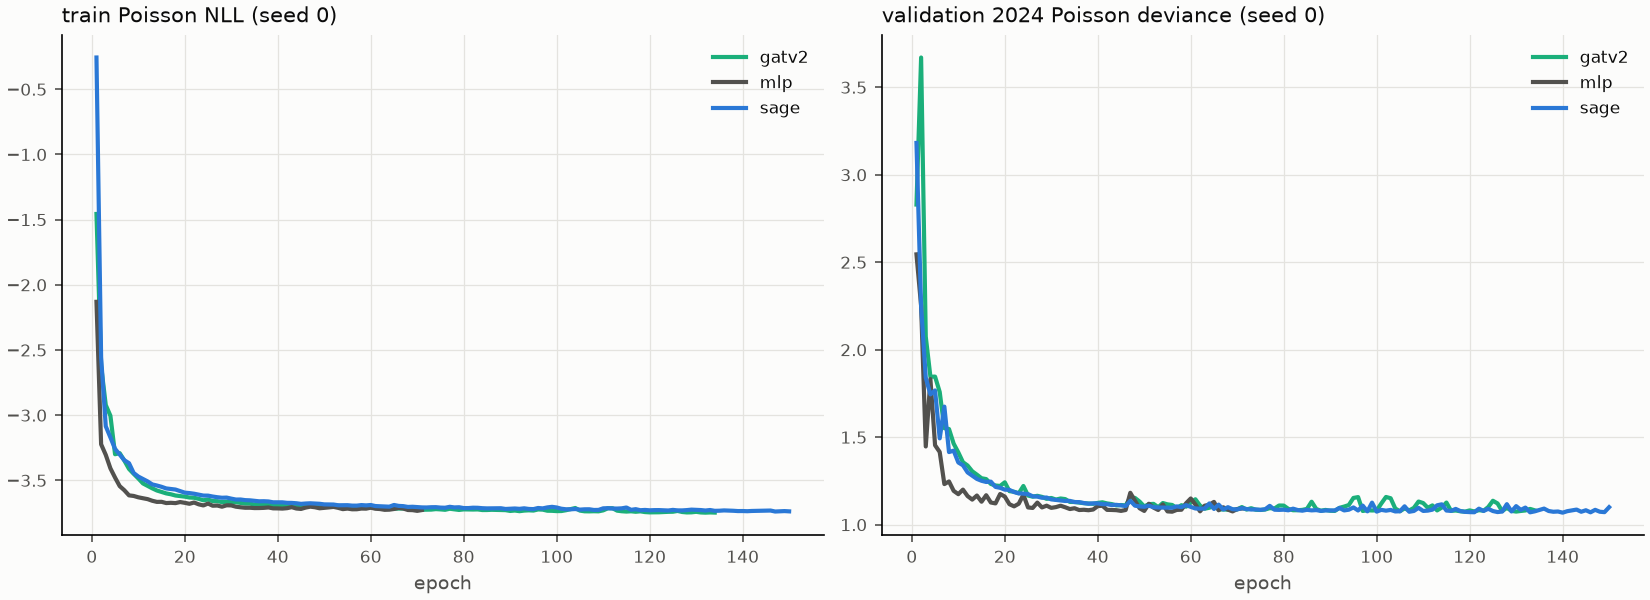
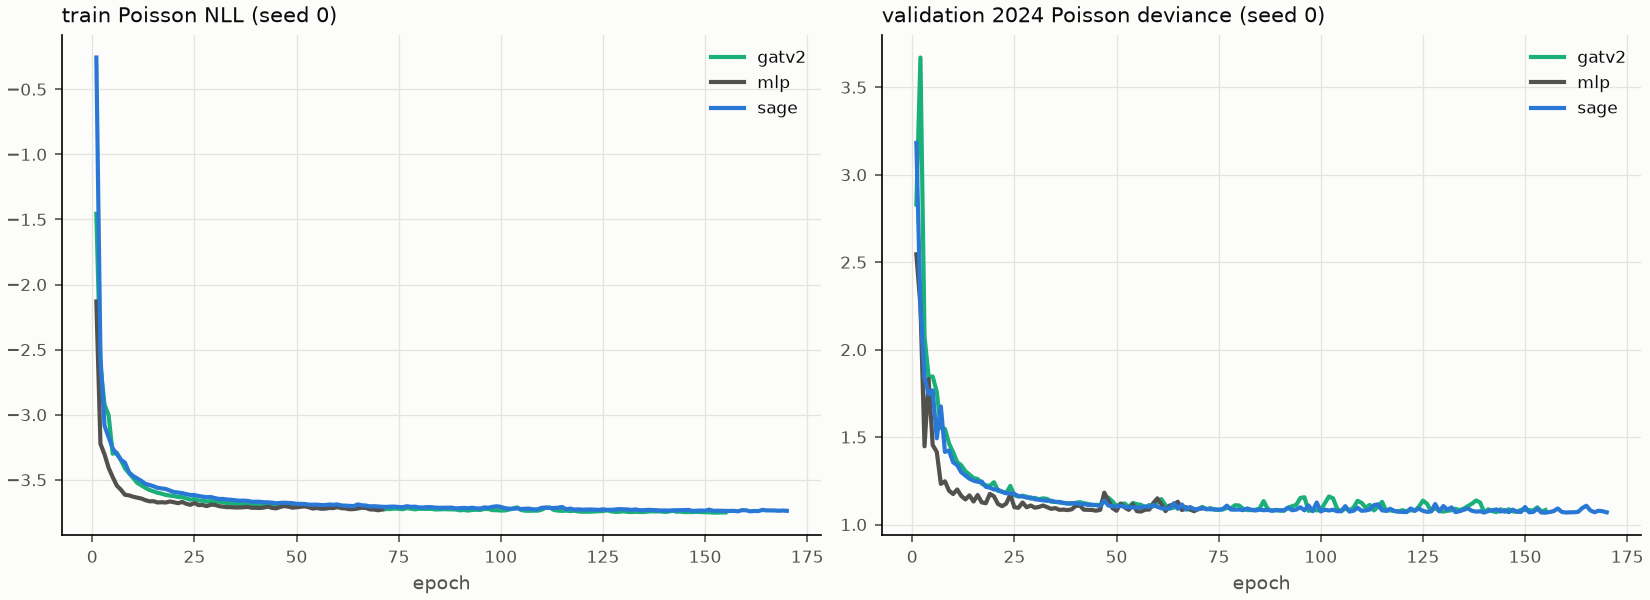
Raise the GNN epoch cap to 400 and refit the final seeds and spatial folds

diff --git a/src/safepath/gnn/train.py b/src/safepath/gnn/train.py
@@ -54,7 +54,7 @@ GNN_SPATIAL_OOF = "gnn_spatial_oof.parquet"
 GNN_SUMMARY = "gnn_summary.json"
 GRID = {"hidden": [64, 128], "layers": [2, 3], "lr": [1e-3, 3e-3], "dropout": [0.1, 0.3]}
 SEEDS = [0, 1, 2, 3, 4]
-MAX_EPOCHS = 150
+MAX_EPOCHS = 400  # CP8 used 150; raised in CP9 so early stopping, not the cap, ends runs
 PATIENCE = 15
 DEVIANCE_FLOOR = 0.05  # crashes/year, as in evaluate.py
 WEIGHT_DECAY = 1e-5
@@ -94,7 +94,7 @@ def train_model(
     train_mask = (g.clean if train_nodes is None else train_nodes & g.clean).to(device)
     stop_mask = (g.clean if stop_nodes is None else stop_nodes & g.clean).to(device)
     train_years = g.split["train"]
-    rate = float(ys[train_years][:, train_mask].mean())
+    rate = ys[train_years][:, train_mask].mean().item()
     model = NodeModel(kind, xs.shape[2], config["hidden"], config["layers"], config["dropout"],
                       edge_dim=ea.shape[1], init_rate=rate).to(device)  # fmt: skip
     opt = torch.optim.Adam(model.parameters(), lr=config["lr"], weight_decay=WEIGHT_DECAY)
@@ -111,7 +111,7 @@ def train_model(
             loss = F.poisson_nll_loss(out[train_mask], ys[t][train_mask], log_input=True)
             loss.backward()
             opt.step()
-            losses.append(float(loss))
+            losses.append(loss.item())
         model.eval()
         with torch.no_grad():
             dev = deviance(ys[val][stop_mask], model(xs[val], ei, ea)[stop_mask])
@@ -281,15 +281,26 @@ def plot_curves(summary: dict[str, Any], path: Path) -> None:
     plt.close(fig)
 
 
-def run(cfg: dict[str, Any], device_name: str | None = None) -> dict[str, Any]:
+def run(
+    cfg: dict[str, Any], device_name: str | None = None, reuse_configs: bool = False
+) -> dict[str, Any]:
     processed = Path(cfg["paths"]["processed_dir"])
     device = pick_device(device_name)
     g = load_graph(cfg)
+    models_dir = Path(cfg["paths"]["models_dir"])
     t0 = time.time()
-    grid = grid_search(g, device, cfg)
-    configs = best_configs(grid)
-    with tracking.run(cfg, "gnn-grid", "gnn", {"grid": GRID, "device": str(device)}) as wb:
-        wb.table("grid", grid)
+    if reuse_configs:
+        # Keep the earlier grid and its chosen configs; refit only the finals and folds.
+        previous = json.loads((models_dir / GNN_SUMMARY).read_text())
+        grid, configs = pd.DataFrame(previous["grid"]), previous["configs"]
+        grid_max_epochs = previous.get("grid_max_epochs", 150)
+        log.info("reusing grid configs from %s: %s", GNN_SUMMARY, configs)
+    else:
+        grid = grid_search(g, device, cfg)
+        configs = best_configs(grid)
+        grid_max_epochs = MAX_EPOCHS
+        with tracking.run(cfg, "gnn-grid", "gnn", {"grid": GRID, "device": str(device)}) as wb:
+            wb.table("grid", grid)
     preds, summary = final_models(g, device, configs, cfg)
     preds.to_parquet(processed / GNN_PREDICTIONS, index=False)
     oof = spatial_holdout(g, device, configs, cfg)
@@ -303,6 +314,9 @@ def run(cfg: dict[str, Any], device_name: str | None = None) -> dict[str, Any]:
         "mps_fallback": os.environ.get("PYTORCH_ENABLE_MPS_FALLBACK"),
         "torch": torch.__version__,
         "grid": grid.to_dict(orient="records"),
+        "grid_max_epochs": grid_max_epochs,
+        "max_epochs": MAX_EPOCHS,
+        "patience": PATIENCE,
         "configs": configs,
         "models": summary,
         "timing": times,
@@ -315,7 +329,6 @@ def run(cfg: dict[str, Any], device_name: str | None = None) -> dict[str, Any]:
             "years": g.years,
         },  # fmt: skip
     }
-    models_dir = Path(cfg["paths"]["models_dir"])
     models_dir.mkdir(parents=True, exist_ok=True)
     (models_dir / GNN_SUMMARY).write_text(json.dumps(out, indent=2, default=float))
     log.info("GNN training done in %.0fs on %s", out["total_seconds"], device)
@@ -327,8 +340,13 @@ def main(argv: list[str] | None = None) -> int:
     parser = argparse.ArgumentParser(prog="safepath.gnn.train")
     parser.add_argument("--config", default=None)
     parser.add_argument("--device", default=None, help="cuda, mps or cpu (default: auto)")
+    parser.add_argument(
+        "--reuse-configs",
+        action="store_true",
+        help="skip the grid; refit finals and folds with the saved configs",
+    )
     args = parser.parse_args(argv)
-    run(load_config(args.config), args.device)
+    run(load_config(args.config), args.device, args.reuse_configs)
     return 0
 
 

diff --git a/src/safepath/evaluate_gnn.py b/src/safepath/evaluate_gnn.py
@@ -265,6 +265,9 @@ def write_report(cfg: dict[str, Any], r: dict[str, Any], path: Path) -> None:
         return markdown_table(df.drop(columns=[c for c in df if c.startswith("_")]), floats)
 
     configs = pd.DataFrame([{"model": LABELS[f"gnn_{k}"], **c} for k, c in s["configs"].items()])
+    runs = [x for m in s["models"].values() for x in m["seeds"]]
+    n_runs, latest = len(runs), max(x["best_epoch"] for x in runs)
+    capped = sum(len(x["history"]) >= s.get("max_epochs", 150) for x in runs)
     lines = [
         "# Graph neural networks on the intersection graph (CP8)",
         "",
@@ -282,12 +285,21 @@ def write_report(cfg: dict[str, Any], r: dict[str, Any], path: Path) -> None:
         "## Training",
         "",
         "Poisson NLL on log expected crashes; full batch, one step per train-year snapshot per "
-        "epoch; early stopping on validation-2024 deviance (patience 15, at most 150 epochs). "
+        "epoch; early stopping on validation-2024 deviance (patience "
+        f"{s.get('patience', 15)}; at most {s.get('max_epochs', 150)} epochs for the final "
+        f"seeds and spatial folds, {s.get('grid_max_epochs', 150)} in the grid search). "
         f"Grid on validation only: hidden {{64, 128}} x layers {{2, 3}} x lr {{1e-3, 3e-3}} x "
         f"dropout {{0.1, 0.3}} per model. Device: {s['device']}. Final configs, 5 seeds each; "
         "a model's prediction is the mean of its 5 seeds' expected counts.",
         "",
         table(configs, "{:g}"),
+        "",
+        f"Final runs stopped by the epoch cap: {capped} of {n_runs} (latest best epoch "
+        f"{latest}). CP8 used a 150-epoch cap, which cut off one GraphSAGE seed (best epoch "
+        "140 of 150); with the cap at 400 (CP9) every run stops early, the 5-seed test "
+        "Spearman moves by at most 0.0001 and no conclusion changes. GATv2 seeds moved a "
+        "little without touching the old cap: MPS training is not bit-for-bit reproducible. "
+        "The grid search was not re-run; its configs come from the 150-epoch grid.",
         "",
         "Seed variance:",
         "",

diff --git a/reports/gnn.md b/reports/gnn.md
@@ -7,7 +7,7 @@
 
 ## Training
 
-Poisson NLL on log expected crashes; full batch, one step per train-year snapshot per epoch; early stopping on validation-2024 deviance (patience 15, at most 150 epochs). Grid on validation only: hidden {64, 128} x layers {2, 3} x lr {1e-3, 3e-3} x dropout {0.1, 0.3} per model. Device: mps. Final configs, 5 seeds each; a model's prediction is the mean of its 5 seeds' expected counts.
+Poisson NLL on log expected crashes; full batch, one step per train-year snapshot per epoch; early stopping on validation-2024 deviance (patience 15; at most 400 epochs for the final seeds and spatial folds, 150 in the grid search). Grid on validation only: hidden {64, 128} x layers {2, 3} x lr {1e-3, 3e-3} x dropout {0.1, 0.3} per model. Device: mps. Final configs, 5 seeds each; a model's prediction is the mean of its 5 seeds' expected counts.
 
 | model | hidden | layers | lr | dropout |
 |---|---:|---:|---:|---:|
@@ -15,13 +15,15 @@ Poisson NLL on log expected crashes; full batch, one step per train-year snapsho
 | MLP (no graph) | 128 | 2 | 0.003 | 0.1 |
 | GraphSAGE | 128 | 3 | 0.001 | 0.3 |
 
+Final runs stopped by the epoch cap: 0 of 15 (latest best epoch 155). CP8 used a 150-epoch cap, which cut off one GraphSAGE seed (best epoch 140 of 150); with the cap at 400 (CP9) every run stops early, the 5-seed test Spearman moves by at most 0.0001 and no conclusion changes. The grid search was not re-run; its configs come from the 150-epoch grid.
+
 Seed variance:
 
 | model | val deviance, mean ± sd | test Spearman, mean ± sd | test deviance, mean ± sd | 5-seed average: test Spearman | best epochs |
 |---|---|---|---|---:|---|
-| GATv2 | 1.0728 ± 0.0059 | 0.7404 ± 0.0015 | 1.0467 ± 0.0093 | 0.7414 | 119, 87, 109, 86, 119 |
+| GATv2 | 1.0717 ± 0.0058 | 0.7405 ± 0.0015 | 1.0587 ± 0.0112 | 0.7414 | 140, 87, 106, 86, 119 |
 | MLP (no graph) | 1.0827 ± 0.0065 | 0.7383 ± 0.0014 | 1.0539 ± 0.0282 | 0.7394 | 56, 51, 39, 58, 69 |
-| GraphSAGE | 1.0731 ± 0.0078 | 0.7409 ± 0.0024 | 1.0309 ± 0.0204 | 0.7424 | 140, 56, 120, 130, 98 |
+| GraphSAGE | 1.0729 ± 0.0080 | 0.7410 ± 0.0024 | 1.0302 ± 0.0204 | 0.7425 | 155, 56, 120, 130, 98 |
 
 ![Training curves](figures/gnn_training_curves.png)
 
@@ -29,8 +31,8 @@ Timing, final GraphSAGE config, one seed, full training to early stop:
 
 | device | epochs | seconds per epoch | total seconds | best val deviance |
 |---|---:|---:|---:|---:|
-| cpu | 150 | 0.607 | 91.073 | 1.069 |
-| mps | 150 | 0.307 | 46.041 | 1.069 |
+| cpu | 185 | 0.729 | 134.831 | 1.068 |
+| mps | 170 | 0.341 | 57.953 | 1.068 |
 
 ## Val 2024: all intersections
 
@@ -41,9 +43,9 @@ Timing, final GraphSAGE config, one seed, full training to early stop:
 | LightGBM + AADT + neighbours | 0.737 [0.730, 0.744] | 0.875 | 0.255 | 0.562 [0.547, 0.577] | 0.716 | 1.059 | 0.980 | 0.046 |
 | EB, recalibrated (routing) | 0.725 [0.718, 0.732] | 0.869 | 0.252 | 0.559 [0.543, 0.574] | 0.714 | 1.138 | 0.972 | 0.038 |
 | MLP (no graph) | 0.727 [0.720, 0.734] | 0.870 | 0.258 | 0.563 [0.549, 0.578] | 0.715 | 1.073 | 1.002 | 0.044 |
-| GraphSAGE | 0.730 [0.724, 0.737] | 0.872 | 0.258 | 0.563 [0.548, 0.579] | 0.717 | 1.061 | 0.994 | 0.038 |
-| GATv2 | 0.730 [0.723, 0.738] | 0.872 | 0.258 | 0.563 [0.548, 0.578] | 0.716 | 1.063 | 0.997 | 0.038 |
-| ensemble (best GNN + LightGBM + AADT) | 0.735 [0.728, 0.742] | 0.874 | 0.256 | 0.563 [0.548, 0.578] | 0.716 | 1.048 | 0.990 | 0.039 |
+| GraphSAGE | 0.731 [0.724, 0.738] | 0.872 | 0.258 | 0.563 [0.548, 0.579] | 0.717 | 1.060 | 0.996 | 0.036 |
+| GATv2 | 0.731 [0.724, 0.738] | 0.872 | 0.258 | 0.563 [0.548, 0.577] | 0.716 | 1.062 | 1.003 | 0.037 |
+| ensemble (best GNN + LightGBM + AADT) | 0.735 [0.728, 0.741] | 0.874 | 0.256 | 0.563 [0.548, 0.578] | 0.716 | 1.048 | 0.991 | 0.038 |
 
 Paired differences (same bootstrap resamples):
 
@@ -52,7 +54,7 @@ Paired differences (same bootstrap resamples):
 | GraphSAGE − MLP (no graph) | +0.004 [+0.002, +0.005] | +0.000 [-0.001, +0.002] |
 | GraphSAGE − LightGBM + AADT | -0.004 [-0.006, -0.002] | +0.001 [-0.001, +0.003] |
 | GraphSAGE − LightGBM + AADT + neighbours | -0.006 [-0.008, -0.004] | +0.002 [-0.000, +0.003] |
-| ensemble (best GNN + LightGBM + AADT) − LightGBM + AADT | +0.000 [-0.001, +0.001] | +0.000 [-0.001, +0.002] |
+| ensemble (best GNN + LightGBM + AADT) − LightGBM + AADT | +0.000 [-0.001, +0.001] | +0.001 [-0.001, +0.002] |
 
 ## Test 2025: all intersections
 
@@ -63,18 +65,18 @@ Paired differences (same bootstrap resamples):
 | LightGBM + AADT + neighbours | 0.746 [0.739, 0.752] | 0.883 | 0.251 | 0.554 [0.540, 0.568] | 0.710 | 1.002 | 1.082 | 0.057 |
 | EB, recalibrated (routing) | 0.733 [0.725, 0.740] | 0.875 | 0.249 | 0.552 [0.537, 0.565] | 0.708 | 1.054 | 1.029 | 0.031 |
 | MLP (no graph) | 0.739 [0.732, 0.746] | 0.880 | 0.251 | 0.554 [0.539, 0.567] | 0.709 | 1.041 | 1.121 | 0.094 |
-| GraphSAGE | 0.742 [0.735, 0.749] | 0.882 | 0.251 | 0.554 [0.539, 0.567] | 0.709 | 1.019 | 1.099 | 0.091 |
-| GATv2 | 0.741 [0.734, 0.748] | 0.881 | 0.251 | 0.554 [0.539, 0.568] | 0.710 | 1.037 | 1.125 | 0.086 |
-| ensemble (best GNN + LightGBM + AADT) | 0.745 [0.739, 0.752] | 0.883 | 0.251 | 0.555 [0.540, 0.568] | 0.710 | 0.999 | 1.086 | 0.066 |
+| GraphSAGE | 0.743 [0.735, 0.749] | 0.882 | 0.251 | 0.553 [0.539, 0.567] | 0.709 | 1.018 | 1.098 | 0.079 |
+| GATv2 | 0.741 [0.734, 0.748] | 0.881 | 0.251 | 0.554 [0.539, 0.568] | 0.710 | 1.049 | 1.149 | 0.118 |
+| ensemble (best GNN + LightGBM + AADT) | 0.745 [0.739, 0.752] | 0.883 | 0.250 | 0.554 [0.540, 0.568] | 0.709 | 1.000 | 1.087 | 0.061 |
 
 Paired differences (same bootstrap resamples):
 
 | comparison | Spearman | recall@5% |
 |---|---|---|
 | GraphSAGE − MLP (no graph) | +0.003 [+0.002, +0.004] | -0.000 [-0.002, +0.002] |
-| GraphSAGE − LightGBM + AADT | -0.002 [-0.003, +0.000] | -0.001 [-0.002, +0.001] |
+| GraphSAGE − LightGBM + AADT | -0.001 [-0.003, +0.000] | -0.001 [-0.002, +0.001] |
 | GraphSAGE − LightGBM + AADT + neighbours | -0.003 [-0.005, -0.002] | -0.000 [-0.002, +0.001] |
-| ensemble (best GNN + LightGBM + AADT) − LightGBM + AADT | +0.001 [+0.001, +0.002] | +0.000 [-0.001, +0.001] |
+| ensemble (best GNN + LightGBM + AADT) − LightGBM + AADT | +0.001 [+0.000, +0.002] | +0.000 [-0.001, +0.001] |
 
 ## Test 2025 subsets
 
@@ -87,9 +89,9 @@ Zero-history intersections (no crash in the prior 3 years):
 | LightGBM + AADT + neighbours | 9,504 | 1,201 | 0.312 | 0.190 | 0.483 | 1.102 |
 | EB, recalibrated (routing) | 9,504 | 1,201 | 0.215 | 0.157 | 0.544 | 1.116 |
 | MLP (no graph) | 9,504 | 1,201 | 0.283 | 0.172 | 0.509 | 1.324 |
-| GraphSAGE | 9,504 | 1,201 | 0.297 | 0.177 | 0.503 | 1.366 |
-| GATv2 | 9,504 | 1,201 | 0.293 | 0.152 | 0.504 | 1.318 |
-| ensemble (best GNN + LightGBM + AADT) | 9,504 | 1,201 | 0.305 | 0.182 | 0.489 | 1.202 |
+| GraphSAGE | 9,504 | 1,201 | 0.297 | 0.175 | 0.500 | 1.315 |
+| GATv2 | 9,504 | 1,201 | 0.294 | 0.155 | 0.507 | 1.374 |
+| ensemble (best GNN + LightGBM + AADT) | 9,504 | 1,201 | 0.304 | 0.179 | 0.489 | 1.190 |
 
 Low-volume intersections (bottom 3 entering-AADT deciles):
 
@@ -100,9 +102,9 @@ Low-volume intersections (bottom 3 entering-AADT deciles):
 | LightGBM + AADT + neighbours | 6,721 | 2,237 | 0.394 | 0.307 | 0.757 | 1.040 |
 | EB, recalibrated (routing) | 6,721 | 2,237 | 0.379 | 0.312 | 0.779 | 1.022 |
 | MLP (no graph) | 6,721 | 2,237 | 0.378 | 0.300 | 0.779 | 1.085 |
-| GraphSAGE | 6,721 | 2,237 | 0.386 | 0.308 | 0.772 | 1.087 |
-| GATv2 | 6,721 | 2,237 | 0.384 | 0.302 | 0.776 | 1.055 |
-| ensemble (best GNN + LightGBM + AADT) | 6,721 | 2,237 | 0.393 | 0.304 | 0.759 | 1.047 |
+| GraphSAGE | 6,721 | 2,237 | 0.386 | 0.309 | 0.770 | 1.057 |
+| GATv2 | 6,721 | 2,237 | 0.384 | 0.302 | 0.777 | 1.097 |
+| ensemble (best GNN + LightGBM + AADT) | 6,721 | 2,237 | 0.393 | 0.304 | 0.759 | 1.035 |
 
 ## Road features only, unseen 2 km blocks (test 2025)
 
@@ -112,21 +114,21 @@ CP3's 5 spatial folds; each fold's labels never enter the loss or early stopping
 |---|---|---:|---:|---|---:|---:|---:|---:|
 | LightGBM, road features (CP3) | 0.628 [0.619, 0.637] | 0.794 | 0.192 | 0.478 [0.461, 0.497] | 0.640 | 2.531 | 1.004 | 0.125 |
 | MLP, road features | 0.621 [0.612, 0.630] | 0.789 | 0.191 | 0.471 [0.453, 0.488] | 0.635 | 2.658 | 1.046 | 0.099 |
-| GraphSAGE, road features | 0.629 [0.620, 0.639] | 0.793 | 0.198 | 0.467 [0.450, 0.486] | 0.643 | 2.518 | 1.045 | 0.083 |
+| GraphSAGE, road features | 0.629 [0.620, 0.639] | 0.793 | 0.198 | 0.466 [0.450, 0.487] | 0.643 | 2.517 | 1.045 | 0.083 |
 
 | comparison | Spearman | recall@5% |
 |---|---|---|
-| GraphSAGE, road features − MLP, road features | +0.009 [+0.005, +0.011] | -0.002 [-0.012, +0.010] |
-| GraphSAGE, road features − LightGBM, road features (CP3) | +0.002 [-0.002, +0.006] | -0.010 [-0.022, +0.002] |
+| GraphSAGE, road features − MLP, road features | +0.008 [+0.005, +0.011] | -0.001 [-0.011, +0.010] |
+| GraphSAGE, road features − LightGBM, road features (CP3) | +0.001 [-0.002, +0.005] | -0.009 [-0.021, +0.004] |
 
 ## Ensemble weight (validation)
 
-Best graph model on validation: GraphSAGE; log-space weight on it 0.50.
+Best graph model on validation: GraphSAGE; log-space weight on it 0.55.
 
 ## Conclusions
 
 - **Does message passing help with crash history in the model?** GraphSAGE minus the MLP on the same features, test Spearman: +0.003 [+0.002, +0.004] (better).
-- **Against the trees:** GraphSAGE minus LightGBM + AADT: -0.002 [-0.003, +0.000] (no different); minus LightGBM with hand-built neighbour features: -0.003 [-0.005, -0.002] (worse). Ensemble minus LightGBM + AADT: +0.001 [+0.001, +0.002] (better) (weight on the GNN 0.50, chosen on validation).
-- **Road features only, unseen blocks:** GraphSAGE 0.629, MLP 0.621, LightGBM 0.628 test Spearman. GraphSAGE minus MLP: +0.009 [+0.005, +0.011]; minus LightGBM: +0.002 [-0.002, +0.006].
-- **Per-vehicle calibration** (routing's criterion, mean |log pred/obs| over AADT deciles): validation, recalibrated EB 0.0377; lower: GraphSAGE 0.0375, GATv2 0.0376. Test: recalibrated EB 0.0312, GraphSAGE 0.0911, GATv2 0.0862. Routing stays on recalibrated EB unless you decide otherwise (CP8 decision).
-- Test Spearman: GraphSAGE 0.742, LightGBM + AADT 0.744, persistence 0.741.
+- **Against the trees:** GraphSAGE minus LightGBM + AADT: -0.001 [-0.003, +0.000] (no different); minus LightGBM with hand-built neighbour features: -0.003 [-0.005, -0.002] (worse). Ensemble minus LightGBM + AADT: +0.001 [+0.000, +0.002] (better) (weight on the GNN 0.55, chosen on validation).
+- **Road features only, unseen blocks:** GraphSAGE 0.629, MLP 0.621, LightGBM 0.628 test Spearman. GraphSAGE minus MLP: +0.008 [+0.005, +0.011]; minus LightGBM: +0.001 [-0.002, +0.005].
+- **Per-vehicle calibration** (routing's criterion, mean |log pred/obs| over AADT deciles): validation, recalibrated EB 0.0377; lower: GraphSAGE 0.0362, GATv2 0.0374. Test: recalibrated EB 0.0312, GraphSAGE 0.0792, GATv2 0.1179. Routing stays on recalibrated EB unless you decide otherwise (CP8 decision).
+- Test Spearman: GraphSAGE 0.743, LightGBM + AADT 0.744, persistence 0.741.

diff --git a/README.md b/README.md
@@ -141,17 +141,17 @@ same splits; GNN numbers average 5 seeds.
 | LightGBM + AADT | 0.744 [0.737, 0.751] | 0.304 | 0.628 [0.619, 0.637] (road-only LightGBM) |
 | LightGBM + AADT + neighbour features | **0.746** [0.739, 0.752] | **0.312** | |
 | MLP (no graph) | 0.739 [0.732, 0.746] | 0.283 | 0.621 [0.612, 0.630] |
-| GraphSAGE | 0.742 [0.735, 0.749] | 0.297 | **0.629** [0.620, 0.639] |
-| GraphSAGE + LightGBM ensemble | 0.745 [0.739, 0.752] | 0.305 | |
+| GraphSAGE | 0.743 [0.735, 0.749] | 0.297 | **0.629** [0.620, 0.639] |
+| GraphSAGE + LightGBM ensemble | 0.745 [0.739, 0.752] | 0.304 | |
 
 **Does the graph help?** Message passing beats the same network without it (GraphSAGE vs
-MLP: +0.003 Spearman with crash history, +0.009 on unseen blocks with road features only,
+MLP: +0.003 Spearman with crash history, +0.008 on unseen blocks with road features only,
 both CIs above zero), but it does not beat gradient-boosted trees: GraphSAGE ties LightGBM +
 AADT, trails LightGBM with neighbour features, and the ensemble adds +0.001. Most of the
 signal is the intersection's own crash history, which every model already has. The GNNs also
 overpredict the 2025 level by about 10% and are worse calibrated per vehicle on test, so
-routing stays on recalibrated EB. Training runs on Apple-silicon GPU (MPS) at 0.31 s per epoch
-for GraphSAGE versus 0.61 s on CPU; the code picks CUDA, MPS or CPU automatically. Details:
+routing stays on recalibrated EB. Training runs on Apple-silicon GPU (MPS) at 0.34 s per epoch
+for GraphSAGE versus 0.73 s on CPU; the code picks CUDA, MPS or CPU automatically. Details:
 [`reports/gnn.md`](reports/gnn.md).
 
 ## Validation highlights
